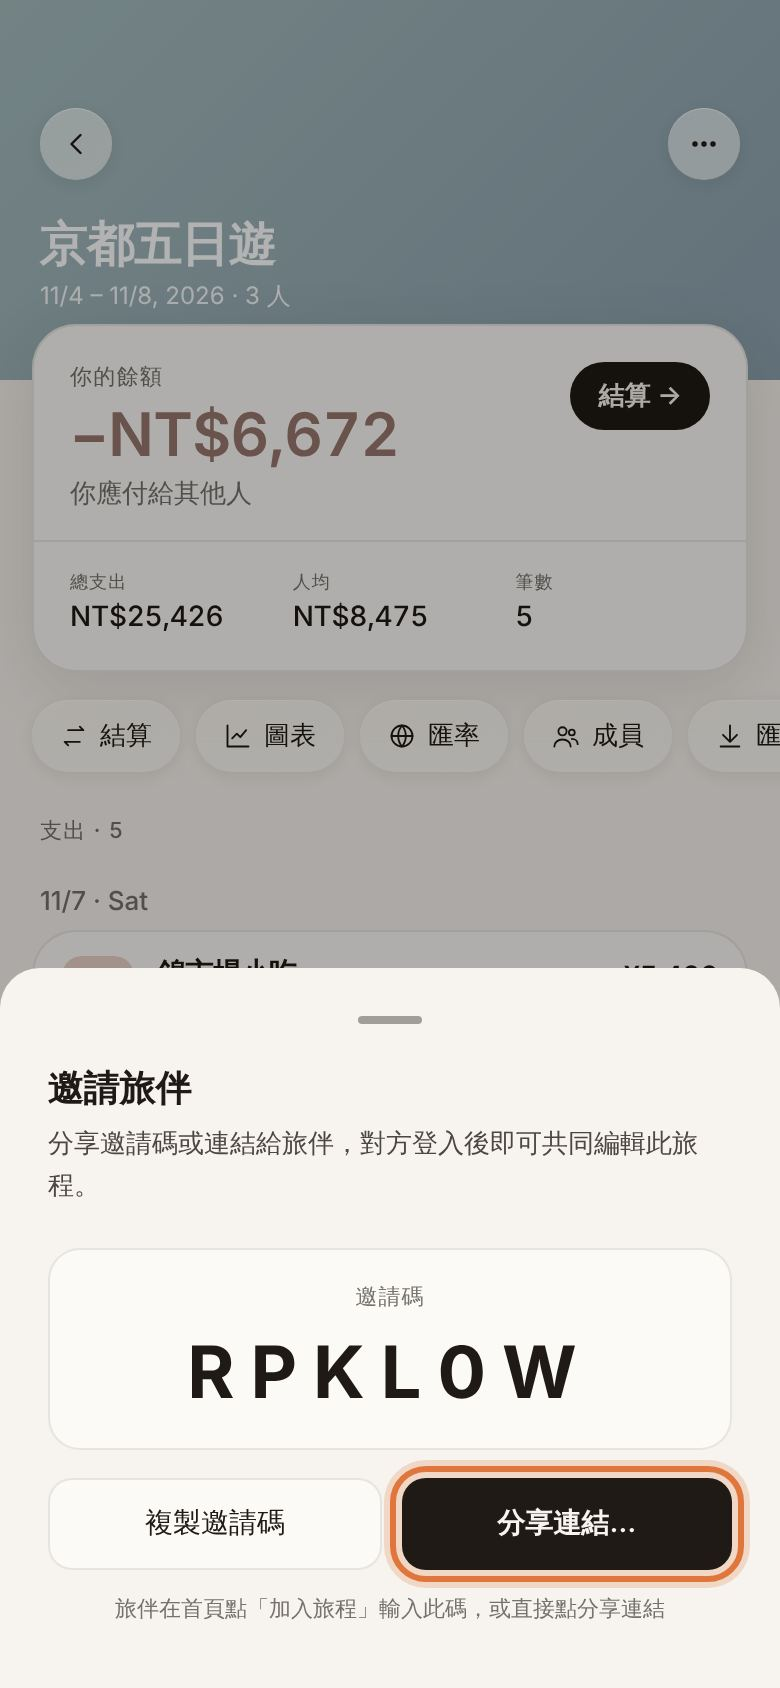
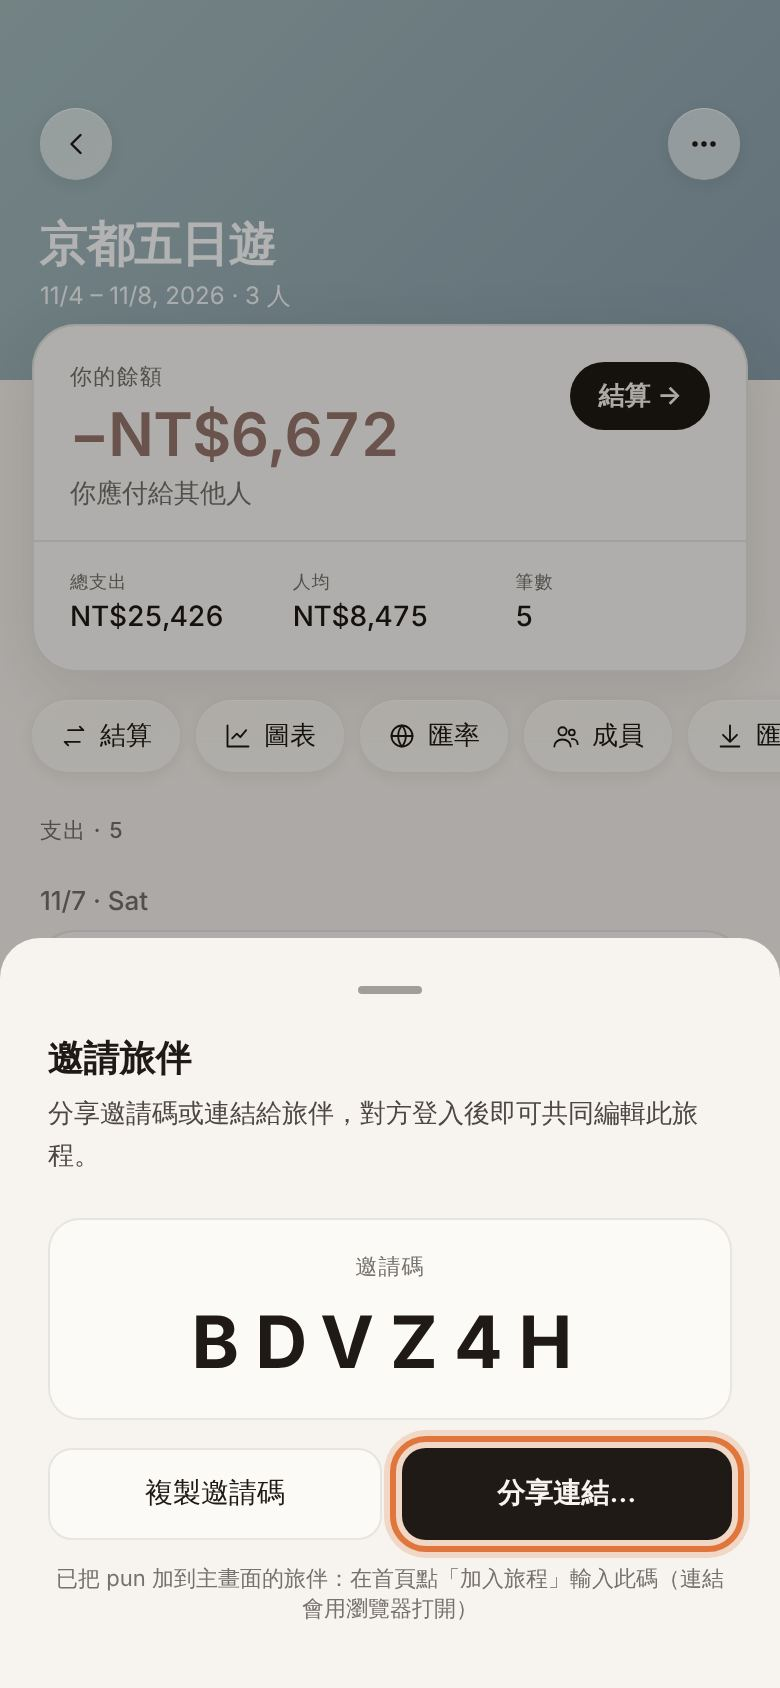
使用指南與邀請流程改為以「加到主畫面」的網頁 App 為主（v6.1.0）
- 指南新增「加到主畫面」步驟；登入建議用 Google（iPhone 主畫面 App 的
  email 連結會在 Safari 打開）；加入旅程改以邀請碼為主（連結不會打開
  主畫面的 pun、LINE 內建瀏覽器無法 Google 登入）；FAQ 補上相關問題與更新方式
- 邀請分享訊息附上邀請碼與加入方式；iPhone 主畫面 App 登入畫面加 Google 登入提示
- Service worker：指南與截圖放在不隨版本清除的 pun-guide 快取，每台裝置
  下載一次即可離線閱讀；未快取又離線時「使用說明」顯示提示與重新載入

Claude-Session: https://claude.ai/code/session_01VGjpT6fhsbcgY8ST8aqJ9d

diff --git a/guide.html b/guide.html
@@ -154,7 +154,7 @@
 
   <div class="hero">
     <h1>3 分鐘學會<br/>用 pun 旅行分帳</h1>
-    <p>旅途中誰付了什麼都記在 pun，回國後 App 會算出「最少幾筆轉帳」就能把帳算清楚，大家付完按一下就結清。</p>
+    <p>旅途中誰付了什麼都記在 pun，回國後 App 會算出「最少幾筆轉帳」就能把帳算清楚，大家付完按一下就結清。pun 是網頁 App，加到手機主畫面就能用。</p>
     <nav class="toc" aria-label="目錄">
       <a href="#start">開始使用</a>
       <a href="#before">① 出發前</a>
@@ -171,22 +171,35 @@
   <!-- ─────────────────────────── 開始使用 -->
   <section id="start">
     <h2><span class="n">0</span>開始使用</h2>
+    <p class="sec-lead">pun 是網頁 App，不用到 App Store 下載，加到主畫面就能像 App 一樣用。</p>
+
+    <div class="step no-img">
+      <div>
+        <span class="who">所有人</span>
+        <h3>把 pun 加到主畫面</h3>
+        <ul>
+          <li><b>iPhone：</b>用 <b>Safari</b> 打開 pun → 下方的分享按鈕 <span class="b">⬆</span> → <span class="b">加入主畫面</span> → <span class="b">新增</span>。</li>
+          <li><b>Android：</b>用 <b>Chrome</b> 打開 pun → 右上角 <span class="b">⋮</span> → <span class="b">加到主畫面</span>（或 <span class="b">安裝應用程式</span>）。</li>
+        </ul>
+        <p>之後都從主畫面的 pun 圖示打開。全螢幕、離線也能記帳，這份使用說明也能離線看。</p>
+        <div class="tip"><b>從 LINE 點開的連結</b>沒辦法直接加到主畫面：先按右上角選單，選 <span class="b">用預設瀏覽器開啟</span>（iPhone 是 Safari），再照上面做。</div>
+      </div>
+    </div>
 
     <div class="step">
       <div>
         <span class="who">所有人</span>
-        <h3>打開 pun 並登入</h3>
+        <h3>用 Google 登入</h3>
         <ol>
-          <li>用手機瀏覽器打開 pun 的網址（或旅伴傳給你的邀請連結）。</li>
-          <li>按 <span class="b">使用 Google 登入</span>，或輸入 email，到信箱點登入連結。</li>
+          <li>從主畫面打開 pun。</li>
+          <li>按 Google 登入按鈕，選你的 Google 帳號。</li>
         </ol>
-        <div class="tip"><b>加到主畫面，用起來就像 App：</b><br/>
-          iPhone：Safari 下方的分享按鈕 → <span class="b">加入主畫面</span><br/>
-          Android：Chrome 右上角選單 → <span class="b">加到主畫面</span>
-        </div>
+        <div class="tip key"><b>iPhone 主畫面的 pun 請用 Google 登入。</b>email 登入連結會在 Safari 打開，登入狀態帶不回主畫面的 pun。</div>
+        <div class="tip">換手機或改用電腦時，用同一個帳號登入，旅程都會自動同步回來。</div>
       </div>
       <figure>
         <img src="guide/01-login.jpg" width="390" height="844" alt="pun 登入畫面" loading="lazy"/>
+        <figcaption>主畫面的 pun 會顯示 Google 自己的登入按鈕，外觀略有不同</figcaption>
       </figure>
     </div>
   </section>
@@ -218,7 +231,7 @@
         <h3>邀請旅伴</h3>
         <ol>
           <li>進入旅程，按右上角 <span class="b">⋯</span> → <span class="b">邀請旅伴</span>。</li>
-          <li>按 <span class="b">分享連結…</span>，傳到 LINE 群組；或把 6 碼 <b>邀請碼</b> 給大家。</li>
+          <li>按 <span class="b">分享連結…</span> 傳到 LINE 群組。訊息裡會一起附上 6 碼 <b>邀請碼</b> 和加入方式。</li>
         </ol>
         <div class="tip">加入的人都可以一起記帳、修改，資料會即時同步。</div>
       </div>
@@ -230,11 +243,12 @@
     <div class="step">
       <div>
         <span class="who">旅伴</span>
-        <h3>加入旅程</h3>
-        <ul>
-          <li><b>有連結：</b>直接點開並登入，就會自動加入。</li>
-          <li><b>有邀請碼：</b>首頁右上角的 <span class="b">加入旅程</span> 圖示（人像 ＋）→ 輸入邀請碼。</li>
-        </ul>
+        <h3>加入旅程（用邀請碼）</h3>
+        <ol>
+          <li>從主畫面打開 pun。</li>
+          <li>首頁右上角的 <span class="b">加入旅程</span> 圖示（人像 ＋）→ 輸入 6 碼邀請碼 → <span class="b">加入旅程</span>。</li>
+        </ol>
+        <div class="tip"><b>為什麼不直接點連結？</b>手機上的連結會用瀏覽器打開，不會打開主畫面的 pun；在 LINE 裡點開也沒辦法用 Google 登入。還沒安裝的人可以先點連結，選 <span class="b">用預設瀏覽器開啟</span>，登入後就會自動加入，之後再把 pun 加到主畫面。</div>
       </div>
       <figure>
         <img src="guide/05-join.jpg" width="390" height="844" alt="輸入邀請碼加入旅程" loading="lazy"/>
@@ -249,7 +263,7 @@
           <li>進入旅程 → <span class="b">成員</span>。</li>
           <li>在自己的名字旁按 <span class="b">這是我</span>。</li>
         </ol>
-        <div class="tip key"><b>很重要：</b>沒有認領的話，「你的餘額」不會是你自己的帳。每支手機各設定一次。</div>
+        <div class="tip key"><b>很重要：</b>沒有認領的話，「你的餘額」不會是你自己的帳。請在主畫面的 pun 裡設定；換手機、或改用瀏覽器開 pun，要再設定一次。</div>
       </div>
       <figure>
         <img src="guide/06-members.jpg" width="390" height="844" alt="成員頁：按「這是我」" loading="lazy"/>
@@ -419,7 +433,19 @@
     </details>
     <details>
       <summary>沒有網路也能記帳嗎？</summary>
-      <div>可以。離線時照常記，連上網路後會自動同步給旅伴。</div>
+      <div>可以。從主畫面打開的 pun 離線時照常記，連上網路後會自動同步給旅伴；這份使用說明離線也能看。</div>
+    </details>
+    <details>
+      <summary>點了邀請連結，卻打開瀏覽器而不是主畫面的 pun？</summary>
+      <div>手機的連結沒辦法直接打開主畫面上的網頁 App。請從主畫面打開 pun，在首頁右上角 <span class="b">加入旅程</span> 輸入邀請碼（分享訊息裡就有）。如果已經在瀏覽器加入了也沒關係：在主畫面的 pun 用同一個 Google 帳號登入，旅程就會出現。</div>
+    </details>
+    <details>
+      <summary>在 LINE 裡打開 pun，Google 登入失敗？</summary>
+      <div>Google 不允許在 LINE 內建的瀏覽器登入。按右上角選單 → <span class="b">用預設瀏覽器開啟</span>，或直接從主畫面的 pun 登入。</div>
+    </details>
+    <details>
+      <summary>主畫面的 pun 怎麼更新到最新版？</summary>
+      <div>連上網路打開 pun 時會自動更新。如果看起來還是舊版：點首頁最下方顯示版本號的那一列，打開 <b>關於</b> → <span class="b">備份資料並更新到最新版本</span>。</div>
     </details>
     <details>
       <summary>旅伴看得到我其他的旅程嗎？</summary>

diff --git a/sw.js b/sw.js
@@ -1,5 +1,5 @@
 // sw.js — Service Worker for pun PWA
-const CACHE = 'pun-v28';
+const CACHE = 'pun-v29';
 
 // CDN scripts pinned to exact versions — pre-cache on install
 const CDN = [
@@ -9,10 +9,32 @@ const CDN = [
   'https://accounts.google.com/gsi/client',
 ];
 
-// ── Install: pre-cache CDN scripts so they survive offline ──
+// The user guide (guide.html + guide/*.jpg) lives in its own cache that is NOT
+// wiped on version bumps: the installed web app downloads it once per device,
+// so 使用說明 works offline from day one, and every online view refreshes it.
+const GUIDE_CACHE = 'pun-guide';
+const isGuidePath = path => /\/guide(\.html$|\/)/.test(path);
+
+function precacheGuide() {
+  return caches.open(GUIDE_CACHE).then(cache =>
+    cache.match('./guide.html').then(hit => {
+      if (hit) return;   // already on this device
+      return fetch('./guide.html').then(res => {
+        if (!res.ok) return;
+        return res.clone().text().then(html => {
+          // Screenshot list comes from the page itself, so it never goes stale
+          const imgs = [...html.matchAll(/src="(guide\/[^"]+)"/g)].map(m => './' + m[1]);
+          return Promise.allSettled([cache.put('./guide.html', res), ...imgs.map(u => cache.add(u))]);
+        });
+      });
+    })
+  ).catch(() => {});   // best effort — offline install is fine
+}
+
+// ── Install: pre-cache CDN scripts (and the guide, once) so they survive offline ──
 self.addEventListener('install', event => {
   self.skipWaiting();
-  event.waitUntil(
+  event.waitUntil(Promise.all([
     caches.open(CACHE).then(cache =>
       Promise.allSettled(
         CDN.map(url =>
@@ -21,15 +43,16 @@ self.addEventListener('install', event => {
             .catch(() => {}) // OK to fail on first install without network
         )
       )
-    )
-  );
+    ),
+    precacheGuide(),
+  ]));
 });
 
 // ── Activate: remove old caches ──
 self.addEventListener('activate', event => {
   event.waitUntil(
     caches.keys()
-      .then(keys => Promise.all(keys.filter(k => k !== CACHE).map(k => caches.delete(k))))
+      .then(keys => Promise.all(keys.filter(k => k !== CACHE && k !== GUIDE_CACHE).map(k => caches.delete(k))))
       .then(() => self.clients.claim())
   );
 });
@@ -65,15 +88,20 @@ self.addEventListener('fetch', event => {
   // up immediately and users never get a mismatched mix of cached JS versions.
   // Falls back to cache when offline.
   if (url.origin === self.location.origin) {
+    // Guide files go to the long-lived guide cache, keyed without the query
+    // (the app embeds guide.html?embed=1; shared links use plain guide.html).
+    const guide = isGuidePath(url.pathname);
     event.respondWith(
       fetch(request)
         .then(response => {
           if (response.ok) {
-            caches.open(CACHE).then(c => c.put(request, response.clone()));
+            const copy = response.clone();
+            caches.open(guide ? GUIDE_CACHE : CACHE)
+              .then(c => c.put(guide ? url.origin + url.pathname : request, copy));
           }
           return response;
         })
-        .catch(() => caches.match(request).then(cached =>
+        .catch(() => caches.match(request, { ignoreSearch: guide }).then(cached =>
           cached || (
             request.destination === 'document'
               ? caches.match('./index.html')

diff --git a/app-shell.jsx b/app-shell.jsx
@@ -616,6 +616,15 @@ window.COVERS = COVERS;
 // page sizes this iframe to its content, so the app window does the scrolling.
 function GuideScreen({ go }) {
   const url = new URL('guide.html', location.href).href;
+  // Offline on a device that never cached the guide → the iframe gets a browser
+  // error page (unreadable: different origin). Show a friendly message instead.
+  const [failed, setFailed] = React.useState(false);
+  const [attempt, setAttempt] = React.useState(0);
+  const onLoad = (e) => {
+    let ok = false;
+    try { ok = !!e.target.contentDocument?.getElementById('ver'); } catch {}
+    setFailed(!ok);
+  };
   const share = async () => {
     if (navigator.share) {
       try { await navigator.share({ title: 'pun 使用指南', text: '3 分鐘學會用 pun 旅行分帳', url }); } catch {}
@@ -638,8 +647,24 @@ function GuideScreen({ go }) {
           <Icon.share width={14} height={14}/> 分享
         </button>
       </div>
-      <iframe src="guide.html?embed=1" title="pun 使用指南"
-        style={{ display: 'block', width: '100%', height: '100vh', border: 0, background: 'transparent' }}/>
+      {failed && (
+        <div style={{ padding: '60px 32px', textAlign: 'center' }}>
+          <div style={{ color: 'var(--ink-4)', display: 'flex', justifyContent: 'center', marginBottom: 12 }}>
+            <Icon.help width={40} height={40}/>
+          </div>
+          <div className="t-h" style={{ fontSize: 15 }}>目前無法載入使用說明</div>
+          <div className="t-meta" style={{ marginTop: 6, lineHeight: 1.6 }}>
+            請連上網路再試一次。<br/>開啟過一次之後，離線也能看。
+          </div>
+          <button onClick={() => { setFailed(false); setAttempt(n => n + 1); }} style={{
+            marginTop: 16, border: 0, background: 'var(--ink)', color: 'var(--bg)',
+            padding: '9px 20px', borderRadius: 999, fontSize: 13, fontWeight: 600,
+            cursor: 'pointer', fontFamily: 'inherit',
+          }}>重新載入</button>
+        </div>
+      )}
+      <iframe key={attempt} src="guide.html?embed=1" title="pun 使用指南" onLoad={onLoad}
+        style={{ display: failed ? 'none' : 'block', width: '100%', height: '100vh', border: 0, background: 'transparent' }}/>
     </div>
   );
 }

diff --git a/sync-firebase.jsx b/sync-firebase.jsx
@@ -32,8 +32,13 @@ function InviteSheet({ tripId, onClose }) {
 
   function shareLink() {
     const url = `${location.origin}${location.pathname}?invite=${code}`;
-    if (navigator.share) navigator.share({ title: '加入我的旅程', url });
-    else { navigator.clipboard?.writeText(url); setCopied(true); setTimeout(() => setCopied(false), 2000); }
+    // Links can't open the home-screen web app, and LINE's built-in browser
+    // blocks Google sign-in — so the message always carries the code too.
+    const text = `一起用 pun 記旅費！邀請碼：${code}\n`
+      + `・已把 pun 加到主畫面：打開 pun → 首頁右上角「加入旅程」→ 輸入邀請碼\n`
+      + `・還沒安裝：點下面的連結（在 LINE 裡請先選「用瀏覽器開啟」）`;
+    if (navigator.share) navigator.share({ title: '加入我的旅程', text, url }).catch(() => {});
+    else { navigator.clipboard?.writeText(`${text}\n${url}`); setCopied(true); setTimeout(() => setCopied(false), 2000); }
   }
 
   return (
@@ -77,7 +82,7 @@ function InviteSheet({ tripId, onClose }) {
               }}>分享連結…</button>
             </div>
             <div style={{ marginTop: 12, fontSize: 11, color: 'var(--ink-3)', textAlign: 'center' }}>
-              旅伴在首頁點「加入旅程」輸入此碼，或直接點分享連結
+              已把 pun 加到主畫面的旅伴：在首頁點「加入旅程」輸入此碼（連結會用瀏覽器打開）
             </div>
           </>
         )}

diff --git a/auth.jsx b/auth.jsx
@@ -209,6 +209,12 @@ function LoginScreen() {
               </button>
             </form>
 
+            {isPWA && (
+              <div style={{ marginTop: 10, fontSize: 11.5, color: 'var(--ink-3)', textAlign: 'center', lineHeight: 1.6 }}>
+                主畫面上的 pun 建議用 Google 登入：<br/>email 登入連結會在 Safari 打開，登入狀態帶不回這裡
+              </div>
+            )}
+
             {phase === 'error' && (
               <div style={{ marginTop: 12, color: 'var(--neg)', fontSize: 12, textAlign: 'center' }}>
                 {err}

diff --git a/version.js b/version.js
@@ -1,1 +1,1 @@
-window.APP_VERSION = '6.0.0';
+window.APP_VERSION = '6.1.0';

diff --git a/CHANGELOG.md b/CHANGELOG.md
@@ -1,5 +1,17 @@
 # Changelog
 
+## v6.1.0 (2026-11-18)
+### 調整（針對加到主畫面的網頁 App）
+- **使用指南改以「加到主畫面」為主要使用方式**
+  - 新增「把 pun 加到主畫面」步驟（iPhone Safari／Android Chrome 做法；從 LINE 點開要先用預設瀏覽器開啟）
+  - 登入改為建議用 Google：iPhone 主畫面 App 的 email 登入連結會在 Safari 打開，登入狀態帶不回主畫面
+  - 加入旅程改以「邀請碼」為主：手機的連結會用瀏覽器打開、不會打開主畫面的 pun，LINE 內建瀏覽器也無法 Google 登入
+  - 「這是我」說明改為在主畫面的 pun 設定（主畫面 App 與瀏覽器是分開的）
+  - 常見問題新增：邀請連結打開瀏覽器怎麼辦、LINE 裡 Google 登入失敗、主畫面的 pun 怎麼更新
+- **邀請旅伴的分享訊息附上邀請碼**與加入方式（已安裝的人輸入邀請碼、還沒安裝的人點連結）；邀請面板提示改為建議已安裝的旅伴用邀請碼
+- **iPhone 主畫面 App 的登入畫面**新增提示：建議用 Google 登入
+- **使用說明可離線閱讀**：指南與截圖存在獨立快取，每台裝置只下載一次、改版時不會被清掉，連網開啟時自動更新；從未下載過又離線時，「使用說明」會顯示提示與「重新載入」按鈕
+
 ## v6.0.0 (2026-11-18)
 ### 新增
 - **使用指南**：讓第一次用的旅伴 3 分鐘上手，依旅程時間軸分成「開始使用／出發前／旅途中／回國後／常見問題」，每一步標示「所有人」或「開團的人」，並附上標出按鈕位置的真實 App 截圖
